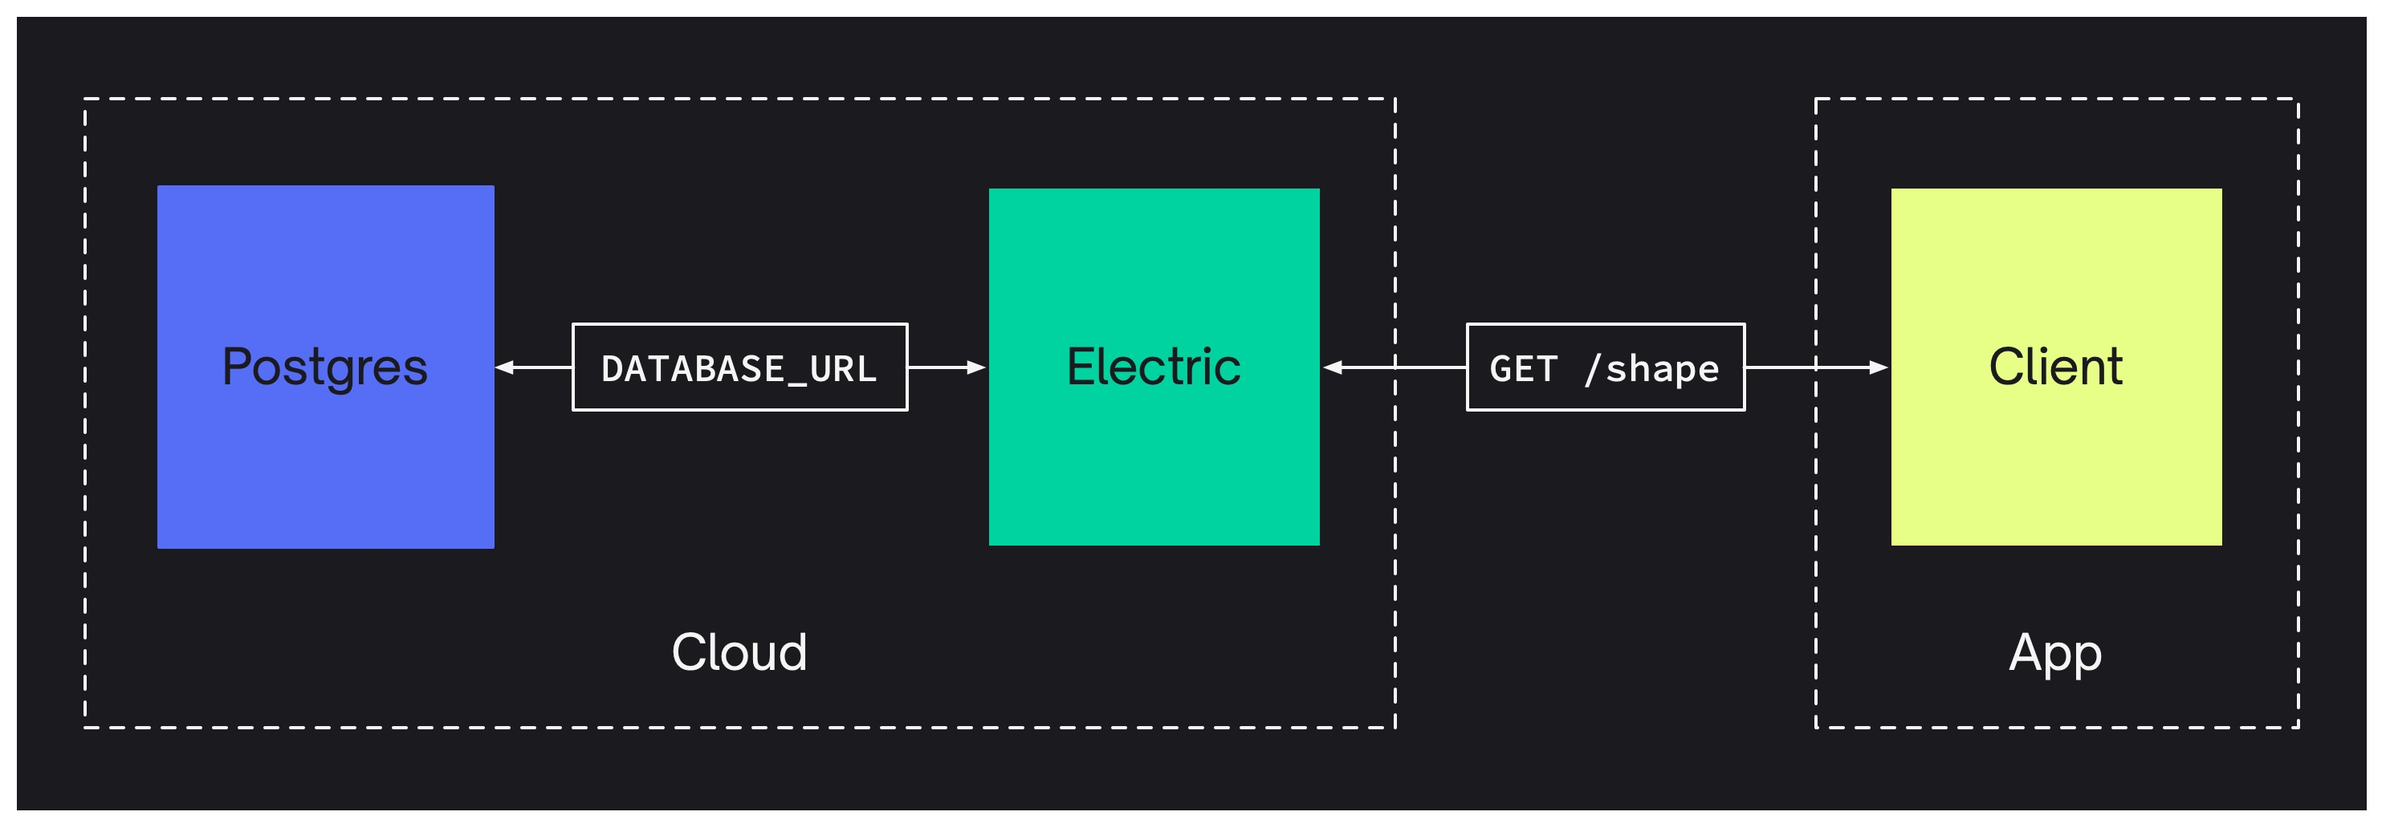
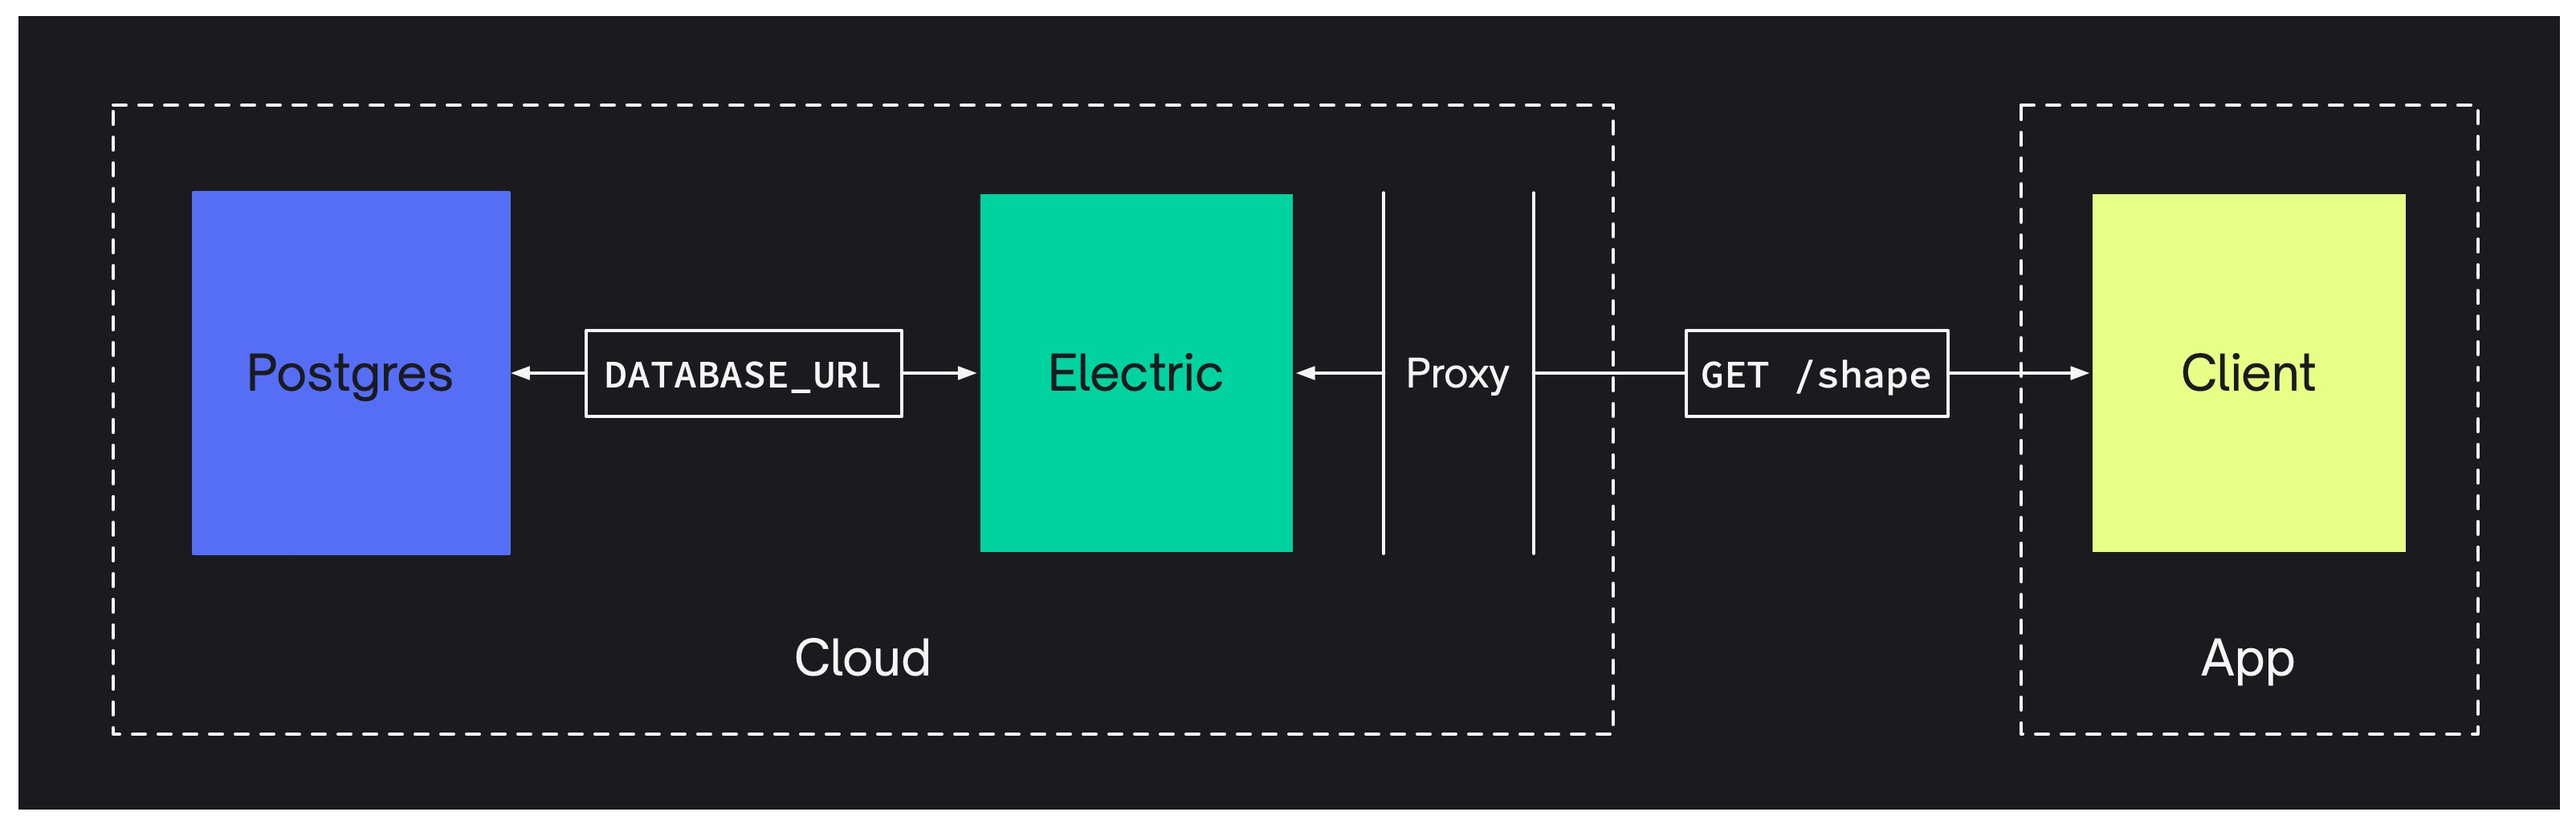
docs: address deployment page review comments.

diff --git a/website/docs/guides/deployment.md b/website/docs/guides/deployment.md
@@ -41,6 +41,12 @@ As a result, there are three ingredients to a successful Electric deployment:
 2. you need to [run and connect the Electric sync service](#_2-running-electric)
 3. you need your app/client to [connect to Electric over HTTP](#_3-connecting-your-app)
 
+### Proxying requests to Electric
+
+You also often want to proxy requests to Electric through your API, or other proxy. For example to implement [auth](./auth) and/or [caching](/docs/api/http#caching). In these cases, you'll also need to deploy your API and/or proxy layer in front of Electric.
+
+Note also that, when running Electric behind a CDN, you may want your proxy in front of the CDN. This is where primitives like [edge functions](/docs/integrations/supabase#sync-into-edge-function) and [edge workers](/docs/integrations/cloudflare#workers) can very useful.
+
 ## 1. Running Postgres
 
 You can use ***any standard Postgres***, version 15 and above.
